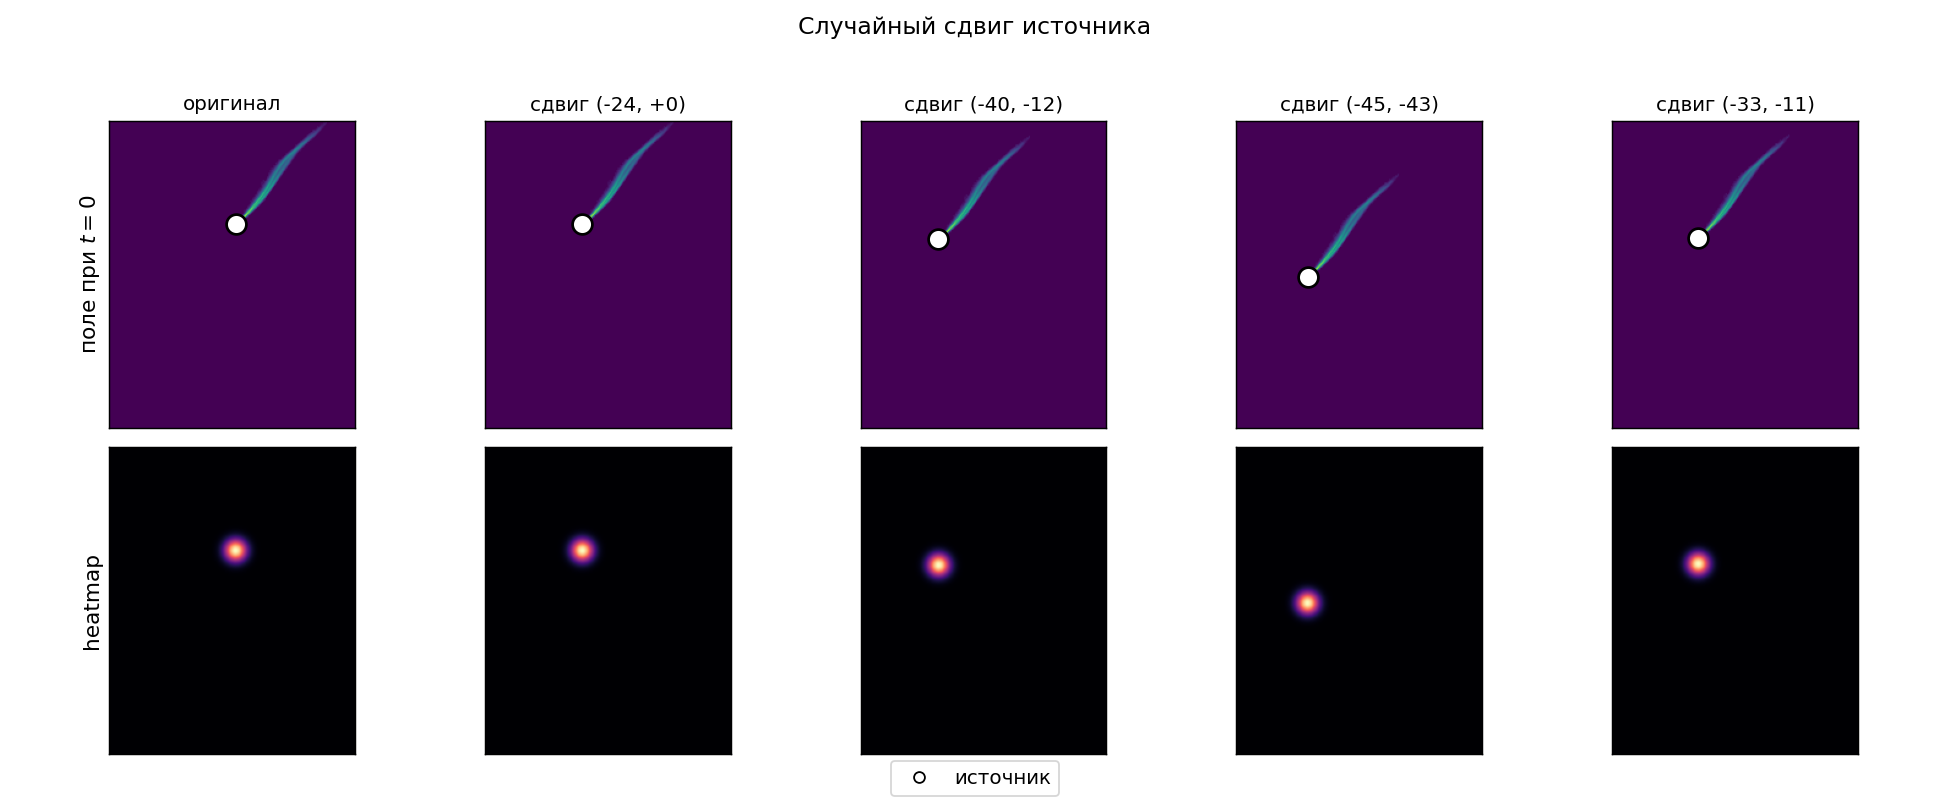
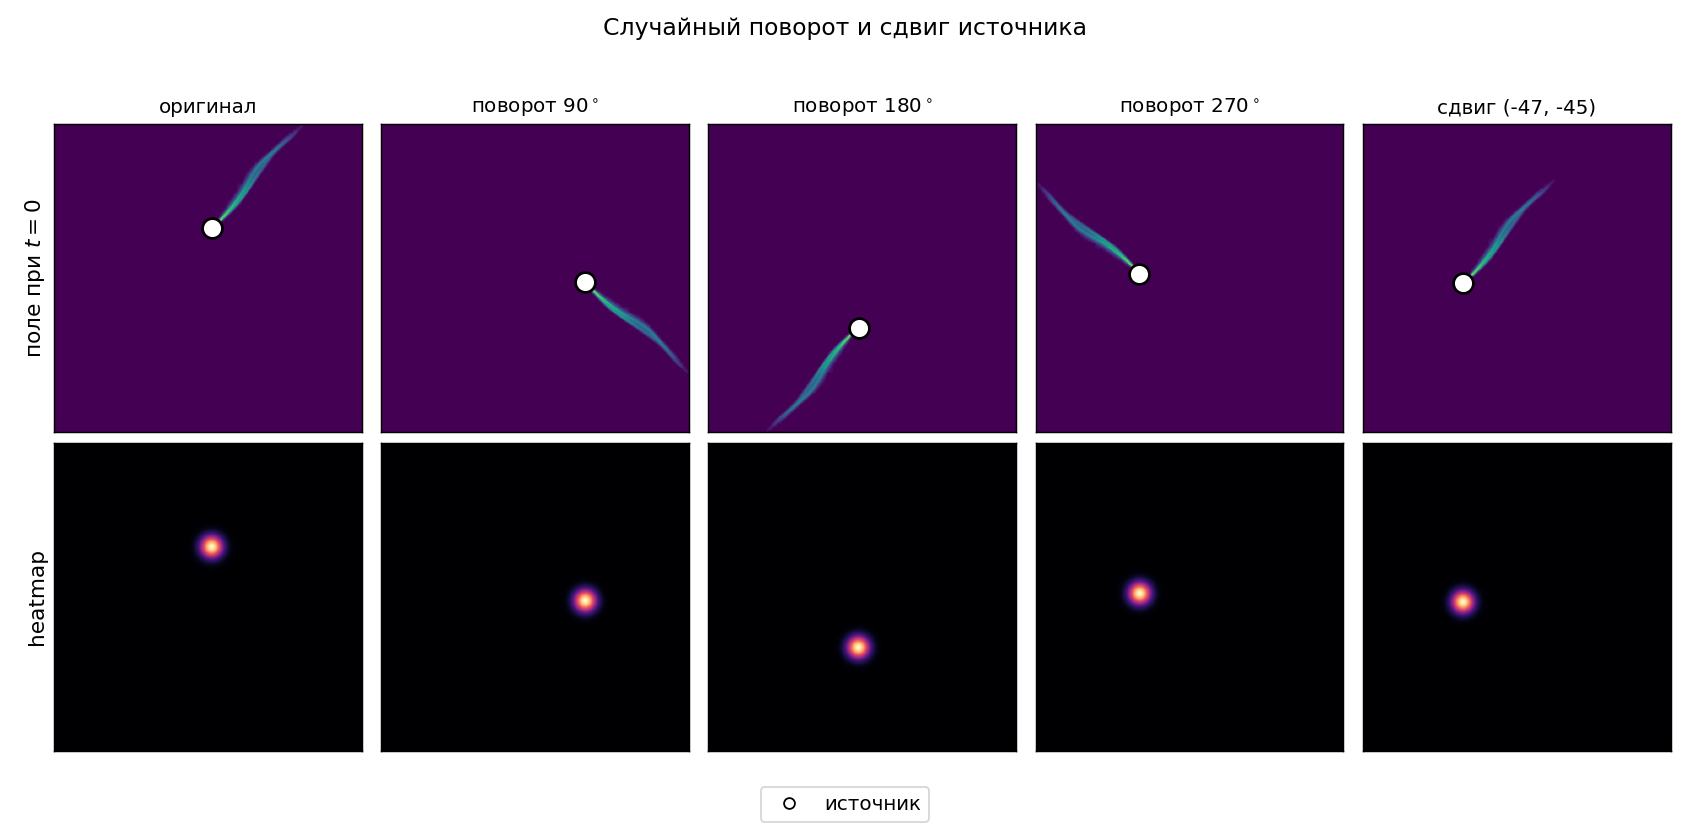
Update dataset comparison section: refine wording, add table for clarity, and improve consistency in metrics presentation

diff --git a/tools/demo_augment.py b/tools/demo_augment.py
@@ -1,7 +1,11 @@
-"""Демо аугментации-сдвига: один сэмпл -> оригинал + N случайных сдвигов настоящей
-apply_augmentation (только translate). Видно, что поле t=0, целевая heatmap и источник
-смещаются согласованно (источник попадает в произвольную точку плоскости).
-Кладёт demo_augment.png в experiments/plots/. Запуск: python tools/demo_augment.py
+"""Демо аугментаций: один сэмпл -> оригинал + повороты 90/180/270 + случайный сдвиг.
+Поле t=0, целевая heatmap и источник преобразуются согласованно теми же функциями
+(_rot90 / apply_augmentation), что и при обучении.
+
+Берём Новосибирск: у него аккуратный гладкий плюм (у Сахалина поле при t=0 -
+разреженные частицы). Поворот рисуем напрямую через _rot90 (он работает и на
+несквадратной сетке); для ровного ряда каждую панель дополняем до квадрата только
+при отрисовке. Кладёт demo_augment.png в experiments/plots/. Запуск: python tools/demo_augment.py
 """
 from __future__ import annotations
 
@@ -20,7 +24,7 @@ ROOT = pathlib.Path(__file__).resolve().parents[1]
 if str(ROOT) not in sys.path:
     sys.path.insert(0, str(ROOT))
 
-from tools.augmentations import AugConfig, apply_augmentation
+from tools.augmentations import AugConfig, _rot90, apply_augmentation
 from tools.dataset import _load_nsk_samples
 from tools.heatmap import gaussian_heatmap
 from tools.splits import classify_files
@@ -28,7 +32,7 @@ from tools.splits import classify_files
 OUT = ROOT / "experiments" / "plots"
 SIGMA = 4.0
 MAX_SHIFT = 48
-N_SHIFTS = 4
+ROT_KS = (1, 2, 3)  # 90/180/270 deg против часовой (как np.rot90)
 
 
 def _noticks(ax) -> None:
@@ -39,6 +43,38 @@ def _noticks(ax) -> None:
 def _src(ax, x: int, y: int) -> None:
     ax.scatter(x, y, c="white", s=120, marker="o", edgecolors="black", lw=1.5, zorder=5)
     _noticks(ax)
+
+
+def _pad_square(field: np.ndarray, x: int, y: int) -> tuple[np.ndarray, int, int]:
+    # центрируем поле в квадрате max(H,W) -> все панели одного размера несмотря на поворот
+    h, w = field.shape
+    m = max(h, w)
+    oy, ox = (m - h) // 2, (m - w) // 2
+    out = np.zeros((m, m), dtype=field.dtype)
+    out[oy:oy + h, ox:ox + w] = field
+    return out, x + ox, y + oy
+
+
+def _rotated(base: dict, k: int) -> dict:
+    # тот же _rot90, что и в обучающей аугментации: крутим поле/heatmap и пересчитываем источник
+    x, y = int(base["coords"][0]), int(base["coords"][1])
+    h, w = base["field_target"].shape
+    field, nx, ny, _, _ = _rot90(base["field_target"], x, y, h, w, k)
+    heat, _, _, _, _ = _rot90(base["heatmap"], x, y, h, w, k)
+    return {"field_target": field, "heatmap": heat, "coords": np.array([nx, ny])}
+
+
+def _shifted(base: dict, max_shift: int) -> dict | None:
+    # самый крупный сдвиг по сидам через реальную apply_augmentation (только translate)
+    cfg = AugConfig(flip_h=False, flip_v=False, rot90=False, translate=True, max_shift=max_shift)
+    x0, y0 = int(base["coords"][0]), int(base["coords"][1])
+    best, best_mag = None, 0
+    for seed in range(200):
+        aug = apply_augmentation(base, cfg, random.Random(seed))
+        mag = abs(int(aug["coords"][0]) - x0) + abs(int(aug["coords"][1]) - y0)
+        if mag > best_mag:
+            best, best_mag = aug, mag
+    return best
 
 
 def main() -> None:
@@ -57,38 +93,36 @@ def main() -> None:
         "heatmap": gaussian_heatmap(x0, y0, h, w, sigma=SIGMA),
         "coords": s.coords.copy(),
     }
-    cfg = AugConfig(flip_h=False, flip_v=False, rot90=False, translate=True, max_shift=MAX_SHIFT)
 
-    # оригинал + N сдвигов (нулевые сдвиги пропускаем, чтобы демо было наглядным)
     cols = [("оригинал", base)]
-    seed = 0
-    while len(cols) <= N_SHIFTS and seed < 500:
-        aug = apply_augmentation(base, cfg, random.Random(seed))
-        dx, dy = int(aug["coords"][0]) - x0, int(aug["coords"][1]) - y0
-        seed += 1
-        if dx or dy:
-            cols.append((f"сдвиг ({dx:+d}, {dy:+d})", aug))
+    for k in ROT_KS:
+        cols.append((f"поворот ${90 * k}^\\circ$", _rotated(base, k)))
+    shifted = _shifted(base, MAX_SHIFT)
+    if shifted is not None:
+        dx, dy = int(shifted["coords"][0]) - x0, int(shifted["coords"][1]) - y0
+        cols.append((f"сдвиг ({dx:+d}, {dy:+d})", shifted))
 
     ncol = len(cols)
-    fig, axes = plt.subplots(2, ncol, figsize=(3 * ncol, 6.2))
+    fig, axes = plt.subplots(2, ncol, figsize=(2.6 * ncol, 6.4))
     for j, (title, d) in enumerate(cols):
-        cx, cy = int(d["coords"][0]), int(d["coords"][1])
-        axes[0, j].imshow(d["field_target"], origin="lower", cmap="viridis", norm=PowerNorm(0.4))
+        field, cx, cy = _pad_square(d["field_target"], int(d["coords"][0]), int(d["coords"][1]))
+        heat, _, _ = _pad_square(d["heatmap"], 0, 0)
+        axes[0, j].imshow(field, origin="lower", cmap="viridis", norm=PowerNorm(0.4))
         _src(axes[0, j], cx, cy)
         axes[0, j].set_title(title, fontsize=11)
-        axes[1, j].imshow(d["heatmap"], origin="lower", cmap="magma", norm=PowerNorm(0.4))
+        axes[1, j].imshow(heat, origin="lower", cmap="magma", norm=PowerNorm(0.4))
         _noticks(axes[1, j])
     axes[0, 0].set_ylabel("поле при $t{=}0$", fontsize=12)
     axes[1, 0].set_ylabel("heatmap", fontsize=12)
 
     leg = [Line2D([0], [0], marker="o", color="white", mec="black", ls="", label="источник")]
     fig.legend(handles=leg, loc="lower center", fontsize=11)
-    fig.suptitle("Случайный сдвиг источника", fontsize=13)
+    fig.suptitle("Случайный поворот и сдвиг источника", fontsize=13)
     fig.tight_layout(rect=(0, 0.04, 1, 0.96))
     OUT.mkdir(parents=True, exist_ok=True)
     fig.savefig(OUT / "demo_augment.png", dpi=130)
     plt.close(fig)
-    print(f"wrote demo_augment.png ({ncol - 1} сдвигов, источник {x0},{y0})")
+    print(f"wrote demo_augment.png (повороты {[90 * k for k in ROT_KS]} + сдвиг, источник {x0},{y0})")
 
 
 if __name__ == "__main__":

diff --git a/report/report.tex b/report/report.tex
@@ -240,14 +240,14 @@ $$
 
 Теперь мы имеем 2 матрицы вероятностей: предсказанную $Q$ и действительную $P$. Про метод их сравнения будет сказано далее в этом разделе.
 
-Можно заметить, что в обоих датасетах уникальных источников не очень много. Если учить модель предсказывать точки $(\hat x, \hat y) \in \RR^2$, а на самом деле точек будет всего 10 или 19 уникальных штук, то она вероятнее всего научится хорошо классифицировать источники и всегда будет выдавать точку, близкую к той, что она видела в обучающих данных. Поэтому было принято решение при обучении каждый раз передаваемую матрицу сдвигать на случайный $\Delta x, \Delta y$, при этом так, чтобы при сдвиге за края матрицы уходила только та область, где концентрация загрязнений равна 0. Это нужно для того, чтобы не сломать физическую подкрепленность данных.
+Можно заметить, что в обоих датасетах уникальных источников не очень много. Если учить модель предсказывать точки $(\hat x, \hat y) \in \RR^2$, а на самом деле точек будет всего 10 или 19 уникальных штук, то она вероятнее всего научится хорошо классифицировать источники и всегда будет выдавать точку, близкую к той, что она видела в обучающих данных. Поэтому было принято решение при обучении каждый раз передаваемую матрицу сдвигать на случайный $\Delta x, \Delta y$, при этом так, чтобы при сдвиге за края матрицы уходила только та область, где концентрация загрязнений равна 0. Это нужно для того, чтобы не сломать физическую подкрепленность данных. Кроме этого, матрица загрязнений и, при наличии, матрицы скоростей ветра, поворачиваются на случайный угол из множества $(0^{\circ}, 90^{\circ}, 180^{\circ}, 270^{\circ})$, это преобразование также не влияет на физику.
 
-После применения такой аугментации модель будет учить паттерны концентрации загрязнений, а не только проверять, под какой из 10/19 источников данная картина подходит больше всего.
+После применения таких аугментации модель будет учить паттерны концентрации загрязнений, а не только проверять, под какой из 10/19 источников данная картина подходит больше всего.
 
 \begin{figure}[h]
     \centering
     \includegraphics[width=16cm]{../experiments/plots/demo_augment.png}
-    \caption{Пример случайного сдвига}
+    \caption{Пример случайного поворота и сдвига}
     \label{fig:demo_augment}
 \end{figure}
 
@@ -553,7 +553,7 @@ $$
 \begin{itemize}
     \item Среднее расстояние от предсказанного до настоящего источника без сглаживания: \textbf{\mWindYesMean}
     \item Среднее расстояние от предсказанного до настоящего источника со сглаживанием: \textbf{\mWindYesSmooth}
-    \item $\mathcal{L}_{\text{field}} = \textbf{1.01}$ (относительная ошибка предсказания матрицы)
+    \item $\mathcal{L}_{\text{field}} = \textbf{1.01}$ (относительная ошибка предсказания матрицы на обучающей выборке)
 \end{itemize}
 
 Для модели без информации о ветре: